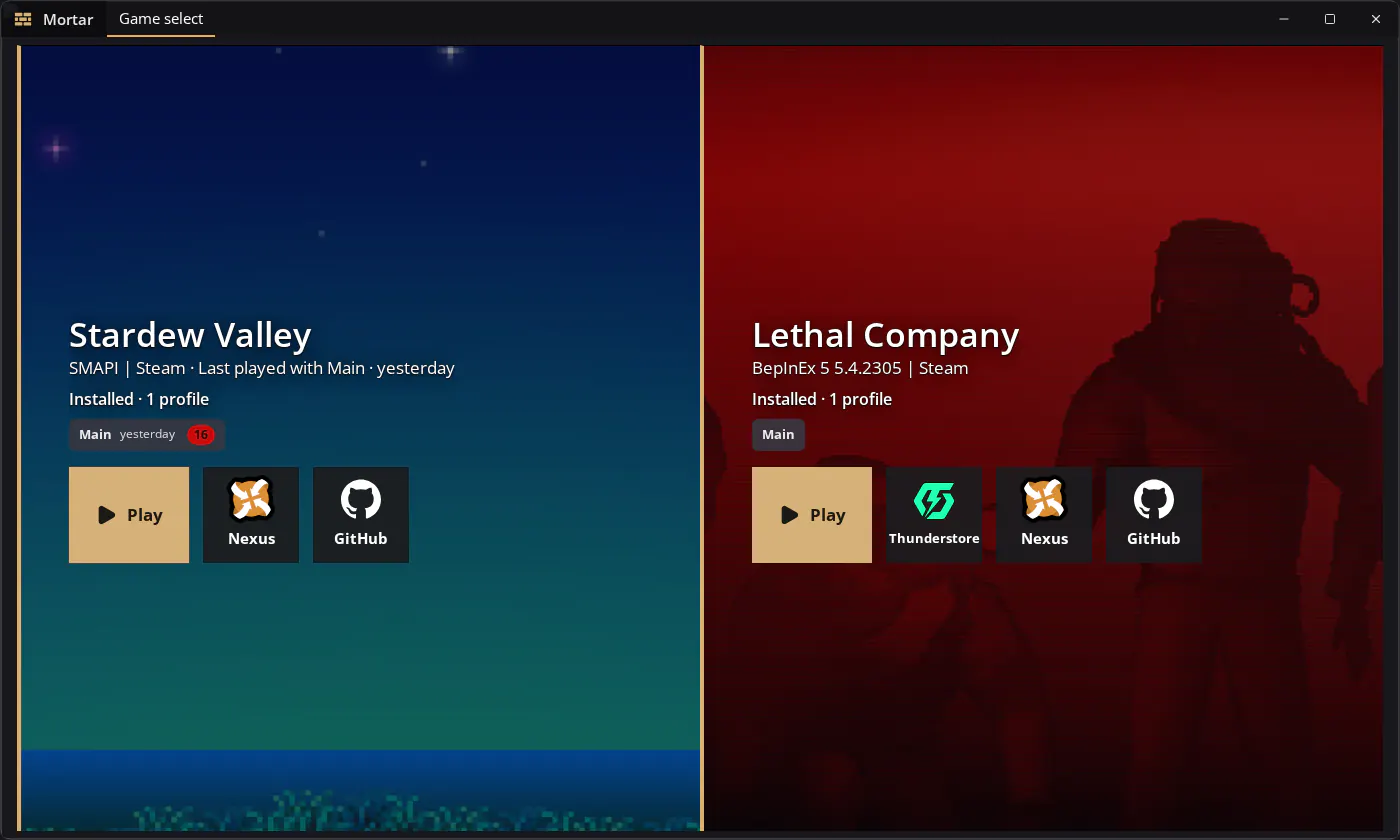
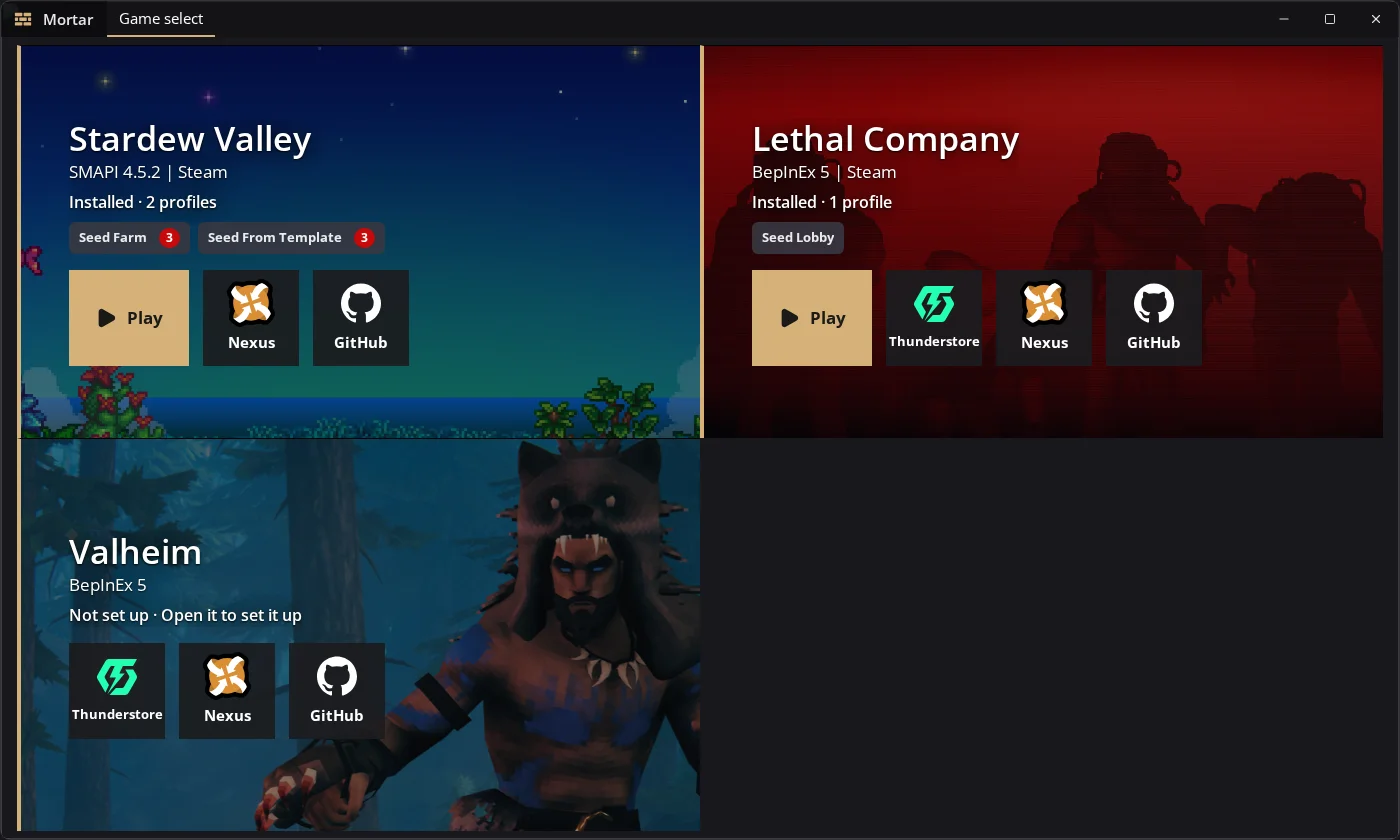
docs(site): present Stardew Valley, Lethal Company and Valheim evenly, and Steam Deck Game Mode play

diff --git a/site/index.html b/site/index.html
@@ -8,7 +8,7 @@
     <title>Mortar: a mod manager for PC games</title>
     <meta
       name="description"
-      content="Mortar is a free, open source desktop mod manager for PC games, with Stardew Valley, Lethal Company and Valheim supported today. It installs each game's mod loader, keeps each set of mods in its own profile, explains conflicts and shares profiles as a link."
+      content="Mortar is a free, open source desktop mod manager for PC games, with Stardew Valley, Lethal Company and Valheim supported today. It installs each game's mod loader, keeps each set of mods in its own profile, explains conflicts, shares profiles as a link and plays from Steam Deck Game Mode."
     />
     <meta
       property="og:title"
@@ -16,11 +16,11 @@
     />
     <meta
       property="og:description"
-      content="Profiles, mod loader setup, Nexus Mods, GitHub and Thunderstore downloads, conflict explanations and shareable profiles. Free and open source for Linux and Windows."
+      content="Profiles, SMAPI and BepInEx setup, Nexus Mods, GitHub and Thunderstore downloads, conflict explanations, shareable profiles and Steam Deck play. Free and open source for Linux and Windows."
     />
     <meta
       property="og:image"
-      content="https://mortar.rethunk.tech/img/mods.webp"
+      content="https://mortar.rethunk.tech/img/games.webp"
     />
     <meta property="og:url" content="https://mortar.rethunk.tech/" />
     <meta name="twitter:card" content="summary_large_image" />
@@ -76,10 +76,10 @@
         </p>
         <img
           class="shot"
-          src="img/mods.webp"
-          width="1280"
-          height="800"
-          alt="Mortar showing a Stardew Valley profile of 817 mods with cover art"
+          src="img/games.webp"
+          width="1400"
+          height="840"
+          alt="Mortar's game select with Stardew Valley, Lethal Company and Valheim"
         />
       </div>
       <ul class="facts wrap">
@@ -129,35 +129,38 @@
 
         <div class="feature flip">
           <div class="copy">
-            <h2>Every game in one window</h2>
+            <h2>Stardew Valley on SMAPI</h2>
             <p>
-              Each game brings its own loader and mod sites, and Mortar handles
-              both from the same window. Pick a game, and its profiles, sources
-              and settings come with it.
+              Mortar installs SMAPI and keeps it up to date, and handles a
+              profile of hundreds of mods with cover art, groups and filters.
+              Each game keeps its own loader, mod sites and settings, so
+              switching games is one click on Game select.
             </p>
             <ul class="ticks">
-              <li>Finds each game in Steam, GOG, Heroic or Lutris</li>
-              <li>Installs and updates the loader the game needs</li>
-              <li>Settings for loaders, launches and saves kept per game</li>
+              <li>Click Mod Manager Download on Nexus Mods and the mod lands in the right profile</li>
+              <li>Import Nexus collections with their FOMOD choices</li>
+              <li>SMAPI options set for the game or for one profile</li>
             </ul>
           </div>
           <img
             class="shot"
-            src="img/games.webp"
-            width="1400"
-            height="840"
+            src="img/mods.webp"
+            width="1280"
+            height="800"
             loading="lazy"
-            alt="The game select screen with Stardew Valley and Lethal Company side by side"
+            alt="Mortar showing a Stardew Valley profile of 817 mods with cover art"
           />
         </div>
 
         <div class="feature">
           <div class="copy">
-            <h2>Lethal Company on BepInEx</h2>
+            <h2>Lethal Company and Valheim on BepInEx</h2>
             <p>
-              Mortar installs BepInEx for you and keeps every Thunderstore
-              package in the profile, not the game folder. At launch it places
-              BepInEx beside the game and takes it back when the game exits.
+              Mortar installs the BepInEx pack each game needs and keeps every
+              Thunderstore package in the profile, not the game folder. At
+              launch it places BepInEx beside the game and takes it back when
+              the game exits. On Linux, Valheim's native build runs modded
+              without Proton.
             </p>
             <ul class="ticks">
               <li>Plugin settings stay with the profile and travel when you share it</li>
@@ -249,6 +252,31 @@
 
         <div class="feature">
           <div class="copy">
+            <h2>Play from Steam Deck Game Mode</h2>
+            <p>
+              Add a profile to Steam and start it from Game Mode like any other
+              game. Mortar stays out of sight while the game starts, shows a
+              dialog only when something needs an answer, and closes with the
+              game so Steam counts your playtime.
+            </p>
+            <ul class="ticks">
+              <li>A gamepad moves focus, confirms, goes back, switches tabs and plays</li>
+              <li>Larger touch and gamepad targets, laid out for the Deck's 1280×800 screen</li>
+              <li>Diagnostics say how launching works in Desktop Mode and in Game Mode</li>
+            </ul>
+          </div>
+          <img
+            class="shot"
+            src="img/deck.webp"
+            width="1280"
+            height="800"
+            loading="lazy"
+            alt="Game select at the Steam Deck's resolution with the Lethal Company tile focused by a gamepad"
+          />
+        </div>
+
+        <div class="feature flip">
+          <div class="copy">
             <h2>Your profiles on all your PCs</h2>
             <p>
               Pair two of your own computers with a short code. A profile you
@@ -271,7 +299,7 @@
           />
         </div>
 
-        <div class="feature flip">
+        <div class="feature">
           <div class="copy">
             <h2>Looks the way you like</h2>
             <p>
@@ -460,8 +488,8 @@
               A small mod Mortar adds to each profile. In Stardew Valley it runs
               console commands sent from Mortar, exposes Generic Mod Config Menu
               settings, records startup timings and drives an overlay for
-              streaming. In Lethal Company it tells Mortar which plugins the
-              running game loaded.
+              streaming. In Lethal Company and Valheim it tells Mortar which
+              plugins the running game loaded.
             </p>
             <div class="links">
               <a href="https://github.com/Rethunk-Tech/mortar-smapi-bridge"
@@ -579,6 +607,16 @@
               <!-- games:start -->Stardew Valley, Lethal Company and Valheim<!-- games:end -->, from Steam
               (including Flatpak Steam), GOG, Heroic and Lutris. Mortar is built for many games, and more are on the
               way.
+            </p>
+          </details>
+          <details>
+            <summary>Does Mortar work on the Steam Deck?</summary>
+            <p>
+              Yes. In Desktop Mode, download the AppImage and run it. Open a
+              profile's menu, choose Add to Steam, and the profile shows up in
+              Game Mode. The Flatpak cannot add itself to Steam, so the
+              <a href="/download/#appimage">AppImage</a> is the one to use on
+              the Deck.
             </p>
           </details>
           <details>

diff --git a/site/download/index.html b/site/download/index.html
@@ -8,7 +8,7 @@
     <title>Download Mortar</title>
     <meta
       name="description"
-      content="Download Mortar for Windows or Linux: installer, AppImage, Flatpak, and signed apt, dnf and pacman repositories that keep it up to date."
+      content="Download Mortar for Windows, Linux or the Steam Deck: installer, AppImage, Flatpak, and signed apt, dnf and pacman repositories that keep it up to date."
     />
     <link rel="icon" href="../favicon.png" />
     <link rel="stylesheet" href="../base.css" />
@@ -39,7 +39,7 @@
         <h1>Download Mortar</h1>
         <p class="lede">
           Free and open source. <span id="version">The latest release</span> for
-          Windows and Linux, on x64 and ARM64.
+          Windows and Linux, on x64 and ARM64, and the Steam Deck.
         </p>
       </div>
 
@@ -324,6 +324,15 @@ sudo pacman -Sy mortar</code></pre>
           <p class="muted">
             The first run adds Mortar to your applications menu and takes
             <code>nxm://</code> links and <code>.mortar</code> files.
+          </p>
+          <h3>Steam Deck</h3>
+          <p class="muted">
+            Use the x86_64 AppImage. In Desktop Mode, download it, mark it
+            executable (Properties, Permissions, or the <code>chmod</code> line
+            above) and run it. Then open a profile's menu and choose
+            <strong>Add to Steam</strong>: the profile appears in Game Mode, and
+            playing it there starts the game with that profile's mods. The
+            Flatpak cannot add itself to Steam.
           </p>
         </div>
 
